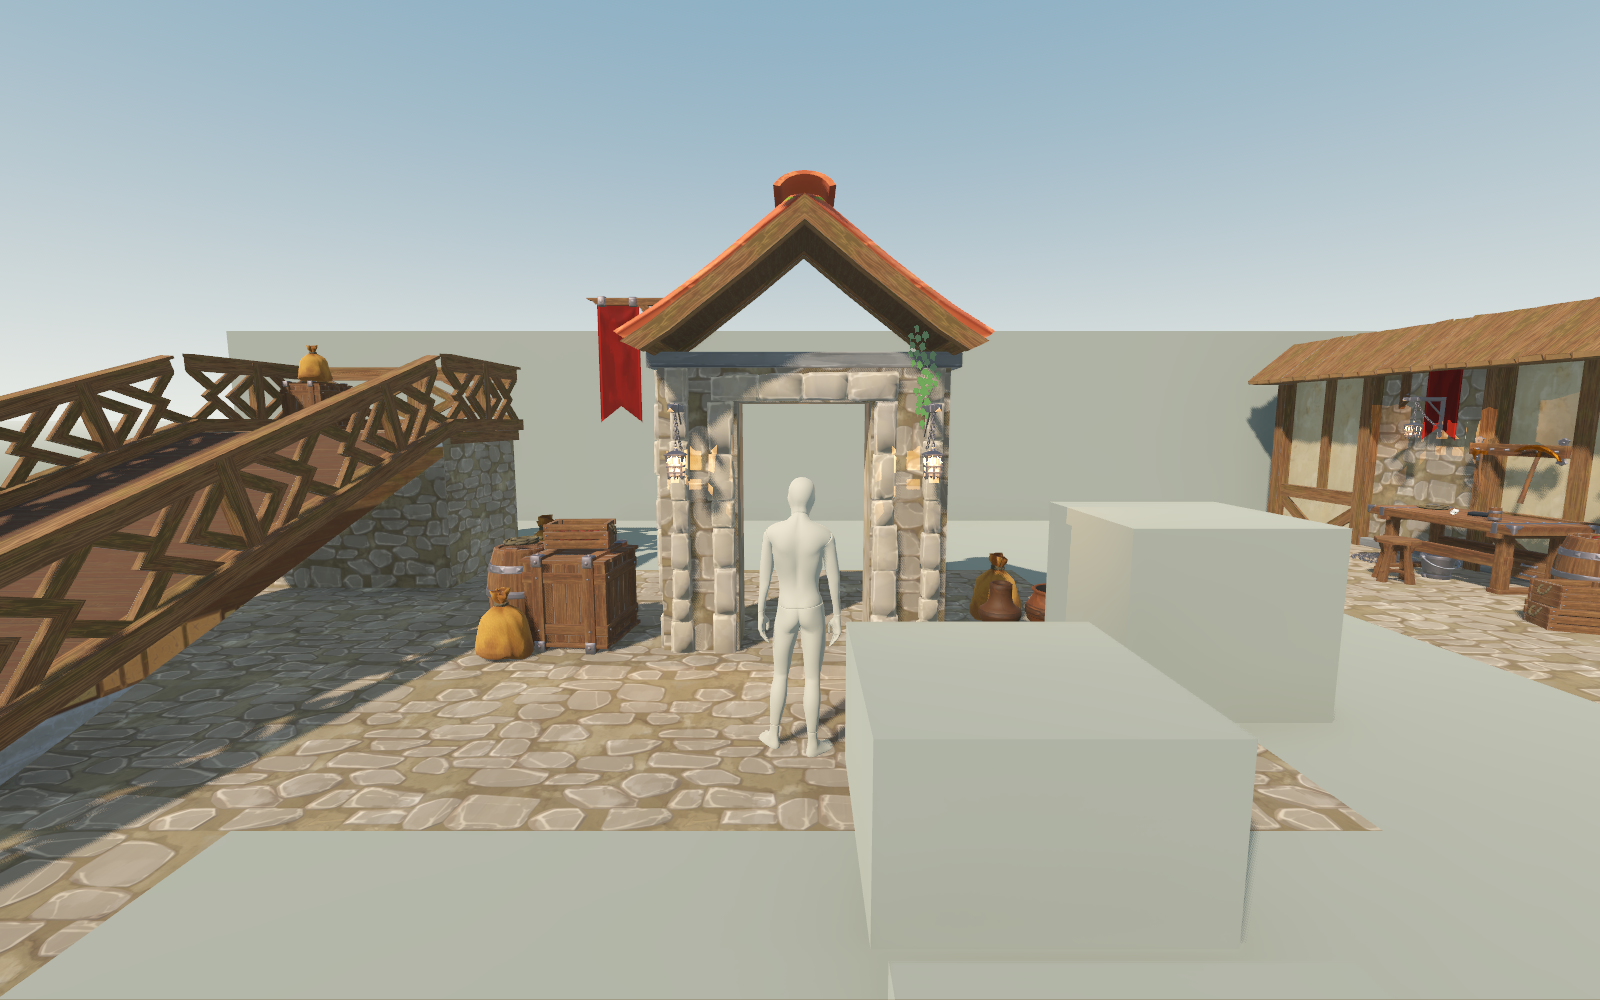
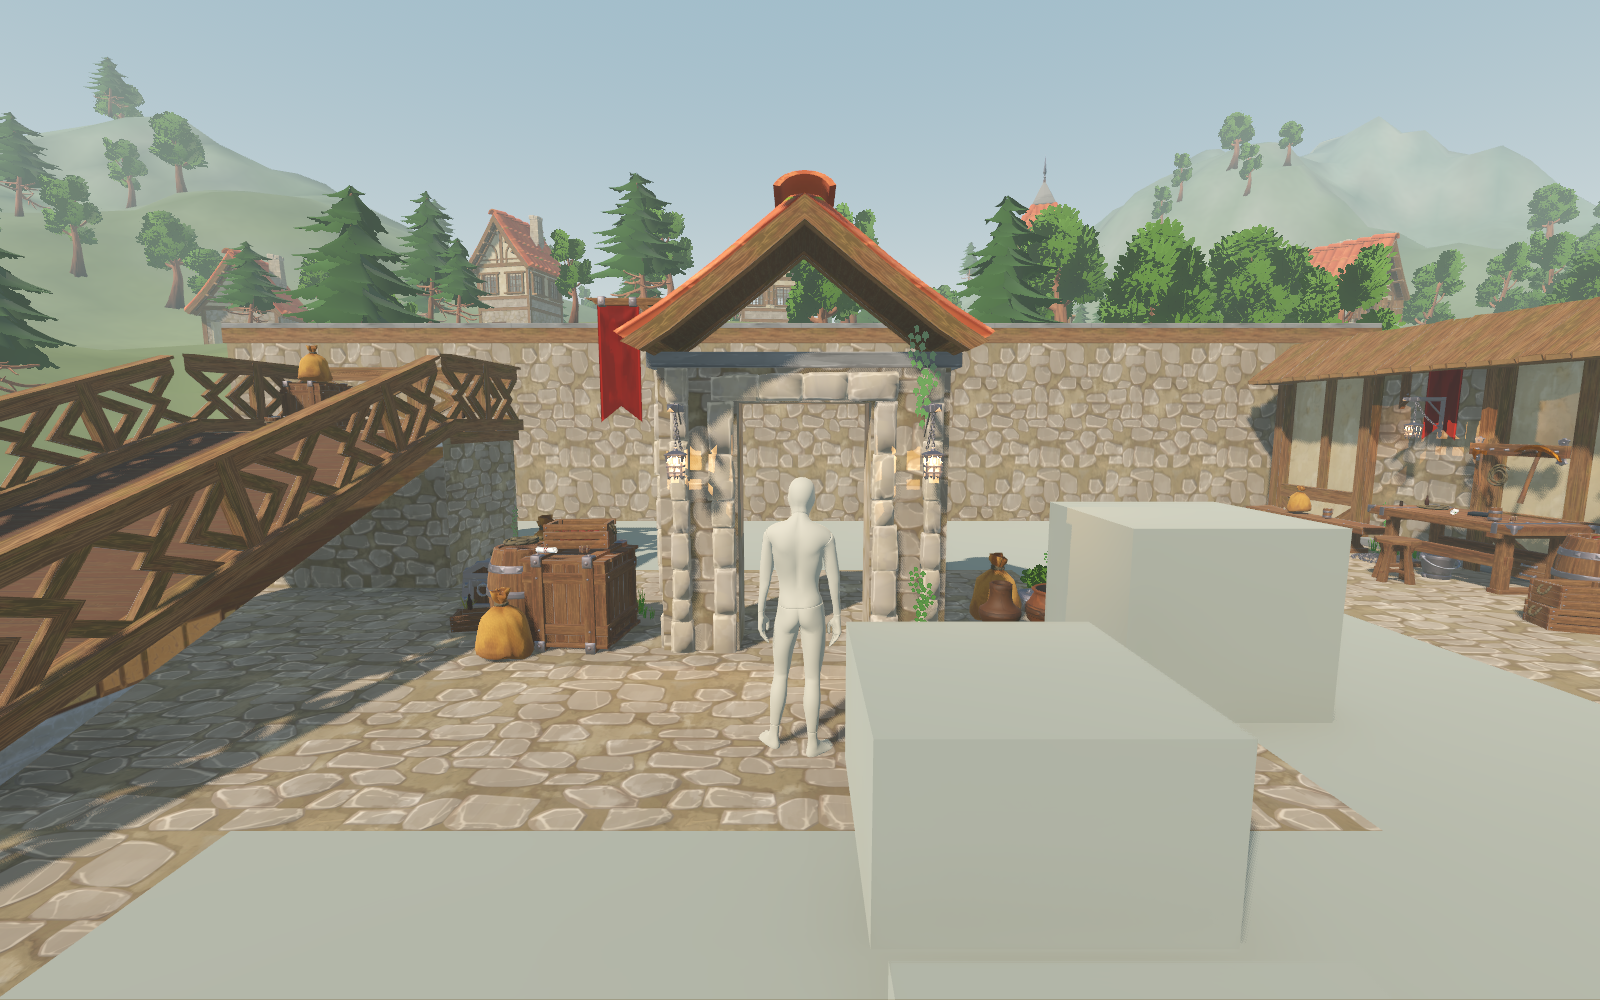
docs: illustrate vegetation and procedural backdrop controls

diff --git a/docs/local-asset-sample.html b/docs/local-asset-sample.html
@@ -6,24 +6,34 @@
 </style></head><body><main>
 <div class="eyebrow">ENVART / LOCAL ASSET STUDY / 2026.11.12</div>
 <h1>先把三个局部做完整。</h1>
-<p class="lead">同一测试场，使用真实建筑与道具素材重新装配门洞、卸货坡道和墙边作业区。以下图片全部来自 Godot Forward+ 实际运行，没有使用宣传图代替场景成果。</p>
+<p class="lead">同一测试场，使用真实建筑、道具和植物素材装配门洞、卸货坡道与墙边作业区，并加入外围聚落、林地和山丘远景。以下图片全部来自 Godot Forward+ 实际运行，没有使用宣传图代替场景成果。</p>
 <nav><a href="#play">开始试玩</a><a href="#shots">近景检查</a><a href="#edit">如何编辑</a><a href="#sources">素材来源</a><a href="rail-camera-guide.html">轨迹相机教程</a></nav>
-<div class="note">本版待用户美术审阅。灰色部分是保留的白盒测试区域，尚未扩展全场。首轮三风格案例被否决后，本轮只验证这三个局部的素材、道具组合与可玩性。</div>
+<div class="note">本版待用户美术审阅。灰色部分是保留的白盒测试区域；新增远景不属于可游玩关卡。首轮三风格案例被否决后，本轮继续补充三个局部的细节、地面植被，并延伸外围景观。</div>
 <figure><a href="images/local-sample/props.png"><img src="images/local-sample/props.png" alt="墙边维修台、工具、蔬果摊和货物的 Godot 实机画面"></a><figcaption>墙边道具区：维修台和蔬果摊具有不同用途，共享木材、金属与布料的美术语言。</figcaption></figure>
 <h2 id="play">从 Unity 到 Godot：打开与试玩</h2>
 <ol><li>用 Godot 4.7.2 打开 <code>GodotProject/envart-pipline/project.godot</code>，等待导入完成。</li><li>按 <kbd>F5</kbd> 运行当前主场景 <code>envart/local_sample/local_sample.tscn</code>。启动时展示门洞机位。</li><li>按 <kbd>1</kbd> 或 <kbd>2</kbd> 回到角色，点击画面捕获鼠标，用 WASD / Shift / Space 移动、奔跑、跳跃。</li><li>按 <kbd>Esc</kbd> 释放鼠标。按 <kbd>5</kbd>、<kbd>6</kbd>、<kbd>7</kbd> 可反复回到固定观察角度，继续移动鼠标不会跳回旧朝向。</li></ol>
-<table><thead><tr><th>输入</th><th>当前样板中的行为</th></tr></thead><tbody><tr><td>5 / 6 / 7</td><td>门洞 / 坡道 / 墙边道具的自由观察机位</td></tr><tr><td>0</td><td>白盒与美术层对照；白盒状态关闭新增道具碰撞</td></tr><tr><td>1 / 2 / 3</td><td>第一人称 / 第三人称 / 自由观察</td></tr><tr><td>4 / P / Home</td><td>原有轨迹相机 / 播放暂停 / 回到轨迹起点</td></tr><tr><td>H / R</td><td>隐藏局部样板提示 / 回到门洞前出生点</td></tr></tbody></table>
-<p><small>原有轨迹仍巡检整个测试场。本轮没有改成只看局部的轨迹；近景使用三个观察书签。历史三风格场景仍可打开后按 F6 单独运行，其 5 / 6 / 7 含义保持原样。</small></p>
+<table><thead><tr><th>输入</th><th>当前样板中的行为</th></tr></thead><tbody><tr><td>5 / 6 / 7</td><td>门洞 / 坡道 / 墙边道具的自由观察机位</td></tr><tr><td>8 / B</td><td>远景观察机位 / 独立开关远景和远景雾</td></tr><tr><td>0</td><td>白盒与美术层对照；白盒状态关闭新增道具碰撞</td></tr><tr><td>1 / 2 / 3</td><td>第一人称 / 第三人称 / 自由观察</td></tr><tr><td>4 / P / Home</td><td>原有轨迹相机 / 播放暂停 / 回到轨迹起点</td></tr><tr><td>H / R</td><td>隐藏局部样板提示 / 回到门洞前出生点</td></tr></tbody></table>
+<p><small>原有轨迹仍巡检整个测试场。本轮没有改成只看局部的轨迹；近景使用四个观察书签。历史三风格场景仍可打开后按 F6 单独运行，其 5 / 6 / 7 含义保持原样。</small></p>
 <h2 id="shots">近景检查</h2>
 <figure><a href="images/local-sample/door.png"><img src="images/local-sample/door.png" alt="门洞的石框、瓦顶、灯笼、旗帜及货物"></a><figcaption>门洞：原有净宽 1.2 m、净高 2.3 m 保留；门框、压顶、瓦檐、灯具与旗帜建立入口层次，两侧货物避让通道。</figcaption></figure>
 <figure><a href="images/local-sample/ramp.png"><img src="images/local-sample/ramp.png" alt="木坡道、栏杆、卸货平台和货车"></a><figcaption>坡道：保留原坡度与落脚平台，装配木铺面、交叉栏杆、石基、货车与卸货物件；没有用台阶替换原坡面。</figcaption></figure>
 <div class="grid"><figure><a href="images/local-sample/workbench_detail.png"><img src="images/local-sample/workbench_detail.png" alt="工作台近景"></a><figcaption>维修角：挂架、斧镐、绳圈、账本、卷轴和水杯，台面物件都有支撑。</figcaption></figure><figure><a href="images/local-sample/shipment_detail.png"><img src="images/local-sample/shipment_detail.png" alt="墙边货物叠放近景"></a><figcaption>待运货物：大小货箱、麻袋、木桶与绳圈按用途分组，避免平均散点堆放。</figcaption></figure></div>
 <div class="grid"><figure><a href="images/local-sample/player_first.png"><img src="images/local-sample/player_first.png" alt="第一人称门洞实机"></a><figcaption>第一人称：检查玩家眼高下的尺寸与近距离细节。</figcaption></figure><figure><a href="images/local-sample/player_third.png"><img src="images/local-sample/player_third.png" alt="第三人称角色实机"></a><figcaption>第三人称：保留本机 Mixamo 人形角色与相机避障。</figcaption></figure></div>
 <details><summary>查看范围总览与原白盒对照</summary><figure><img src="images/local-sample/overview.png" alt="三个局部与保留白盒的整体关系"><figcaption>范围总览：远墙、跳台、台阶等继续作为白盒背景。</figcaption></figure><figure><img src="images/local-sample/door_whitebox.png" alt="相同门洞机位白盒对照"></figure></details>
+<h2 id="vegetation">墙脚植被与外围远景</h2>
+<figure><a href="images/local-sample/vegetation_detail.png"><img src="images/local-sample/vegetation_detail.png" alt="货物边缘的真实灌木、草簇、小花与三叶草"></a><figcaption>灌木、矮草、细叶草、三叶草、蕨类和花朵均来自真实免费素材。固定种子控制局部草簇分布，避免整齐排布和铺满通行空间。</figcaption></figure>
+<figure><a href="images/local-sample/backdrop_vista.png"><img src="images/local-sample/backdrop_vista.png" alt="程序化聚落、树林与山丘远景"></a><figcaption>11 栋真实模块组合的房屋、460 棵树与连续地形。树木按空间分区使用 MultiMesh，避让建筑地基和陡坡；房屋与树林都位于测试场外围。</figcaption></figure>
+<div class="note">程序化负责地形与装配分布，房屋、树木和近景植物仍使用下载模型。远景没有玩法碰撞，也没有完成可探索区域的道路、交互或关卡设计。</div>
+<p>在文件系统面板选中 <code>envart/local_sample/backdrop_config.tres</code>，检查器中可调整种子、树木数量、地形范围、网格步长、山丘高度和地表颜色。房屋的锚点经过构图安排，位于生成脚本的 <code>house_specs</code>；种子控制建筑尺度与树林分布。</p>
+<pre><code># 在仓库根目录运行；MultiMesh 烘焙需要图形后端，不加 --headless。
+/Applications/Godot.app/Contents/MacOS/Godot \
+  --path GodotProject/envart-pipline \
+  --script res://envart/tools/build_backdrop.gd</code></pre>
+<p>输出为 <code>envart/local_sample/backdrop.tscn</code>，F5 运行时直接加载。按 B 开关远景，按 8 查看整体构图，按 0 对照白盒。无图形模式会被生成器拒绝，防止树木实例缓冲丢失。重新生成会覆盖该文件，手工调整前请另存或提交。</p>
 <h2 id="edit">在编辑器里改哪里</h2>
-<div class="grid"><div class="card"><h3>场景与 Prefab 的对应</h3><p>Godot 的 <code>.tscn</code> 可以像 Unity Prefab 一样实例化。打开 <code>local_sample.tscn</code>：<code>BaseLab</code> 管玩法，<code>Art</code> 是素材装配，<code>ReviewViews</code> 是三个观察机位。</p><p>双击 <code>art.tscn</code> 可直接修改各组节点的位置、旋转和缩放。场景中保留 glTF 实例及素材路径元数据。</p></div><div class="card"><h3>素材和碰撞分开检查</h3><p><code>Doorway_StoneAndTimber</code>、<code>Ramp_LoadingDock</code>、<code>Wall_ServiceAndMarket</code> 对应三个局部。大型道具的 <code>Footprint</code> 节点使用独立碰撞，需要和道具一起移动。</p><p>原始 17 个白盒静态碰撞体保持不变。新道具、货车和护栏的碰撞是简化代理，未做逐三角形精确碰撞。</p></div></div>
+<div class="grid"><div class="card"><h3>场景与 Prefab 的对应</h3><p>Godot 的 <code>.tscn</code> 可以像 Unity Prefab 一样实例化。打开 <code>local_sample.tscn</code>：<code>BaseLab</code> 管玩法，<code>Art</code> 是素材装配，<code>ReviewViews</code> 是四个观察机位。</p><p>双击 <code>art.tscn</code> 可直接修改各组节点的位置、旋转和缩放。场景中保留 glTF 实例及素材路径元数据。</p></div><div class="card"><h3>素材和碰撞分开检查</h3><p><code>Doorway_StoneAndTimber</code>、<code>Ramp_LoadingDock</code>、<code>Wall_ServiceAndMarket</code> 对应三个局部。大型道具的 <code>Footprint</code> 节点使用独立碰撞，需要和道具一起移动。</p><p>原始 17 个白盒静态碰撞体保持不变。新道具、货车和护栏的碰撞是简化代理，未做逐三角形精确碰撞。</p></div></div>
 <p>材质保留作者的贴图与 UV。适配包含：启用 mipmaps 与各向异性过滤、校正部分道具的顶点色、减弱法线强度、调整木色和灯光。门柱等需要与白盒严密对齐的位置仍保留原始填充面，使用作者石材纹理；主要可见门框、屋檐、栏杆和 props 使用下载的真实网格。</p>
-<p>运行时的白盒对照与局部填充材质由 <code>sample.gd</code> 切换。新增美术层可以独立移动或替换，控制器不依赖这两套素材。</p>
+<p>运行时的白盒对照与局部填充材质由 <code>sample.gd</code> 切换。新增美术层可以独立移动或替换，控制器不依赖这些素材。</p>
 <details><summary>重新生成与验证命令（会覆盖已生成的样板场景）</summary><p>日常摆放直接在编辑器中修改即可。以下命令只用于重建初始样板；手动修改前先另存场景或提交 Git。</p><pre><code>GODOT_BIN=/Applications/Godot.app/Contents/MacOS/Godot
 "$GODOT_BIN" --headless --path GodotProject/envart-pipline \
   --script res://envart/tools/build_local_sample.gd
@@ -32,7 +42,7 @@
 "$GODOT_BIN" --path GodotProject/envart-pipline \
   --script res://tests/local_sample_visual.gd</code></pre><p>截图输出：<code>/tmp/envart-local-sample/</code>。测试覆盖原白盒碰撞保持、门洞双向穿行、坡道登顶、四种相机与书签后的鼠标朝向连续性。技术验证通过不等于美术验收通过。</p></details>
 <h2 id="sources">实际使用的免费素材</h2>
-<table><thead><tr><th>作者 / 素材</th><th>使用范围</th><th>授权记录</th></tr></thead><tbody><tr><td><a href="https://quaternius.com/packs/medievalvillagemegakit.html">Quaternius · Medieval Village MegaKit</a><br><a href="https://opengameart.org/content/medieval-village-megakit">作者公开下载页</a></td><td>Standard 免费包；精选 30 个建筑、铺面、栏杆、藤蔓和货车模型导入。</td><td>包内 License_Standard.txt：CC0 1.0</td></tr><tr><td><a href="https://quaternius.com/packs/fantasypropsmegakit.html">Quaternius · Fantasy Props MegaKit</a><br><a href="https://opengameart.org/content/fantasy-props-megakit">作者公开下载页</a></td><td>Standard 免费包；精选 40 个工具、容器、家具、食品与杂物模型导入。</td><td>包内 License_Standard.txt：CC0 1.0</td></tr></tbody></table>
-<p>本场景实际实例化其中 48 种模型。未购买或使用 Pro / Source 专属示例场景、磨损版本或自定义着色器。两个素材目录包含原始许可、下载页面和文件 SHA-256 清单；源 ZIP 不放进仓库。</p>
+<table><thead><tr><th>作者 / 素材</th><th>使用范围</th><th>授权记录</th></tr></thead><tbody><tr><td><a href="https://quaternius.com/packs/medievalvillagemegakit.html">Quaternius · Medieval Village MegaKit</a><br><a href="https://opengameart.org/content/medieval-village-megakit">作者公开下载页</a></td><td>Standard 免费包；精选 37 个建筑、铺面、栏杆、藤蔓和货车模型导入。</td><td>包内 License_Standard.txt：CC0 1.0</td></tr><tr><td><a href="https://quaternius.com/packs/fantasypropsmegakit.html">Quaternius · Fantasy Props MegaKit</a><br><a href="https://opengameart.org/content/fantasy-props-megakit">作者公开下载页</a></td><td>Standard 免费包；精选 40 个工具、容器、家具、食品与杂物模型导入。</td><td>包内 License_Standard.txt：CC0 1.0</td></tr><tr><td><a href="https://quaternius.com/packs/stylizednaturemegakit.html">Quaternius · Stylized Nature MegaKit</a><br><a href="https://opengameart.org/content/stylized-nature-megakit">作者公开下载页</a></td><td>Standard 免费包；精选 17 个植物、树木与石块模型导入。</td><td>包内 License_Standard.txt：CC0 1.0</td></tr></tbody></table>
+<p>近景当前实例化 64 种模型，远景另使用建筑构件与三种树木。未购买或使用 Pro / Source 专属示例场景、磨损版本或自定义着色器。三个素材目录包含原始许可、下载页面和文件 SHA-256 清单；源 ZIP 不放进仓库。</p>
 <p><small>Mixamo 人形角色仍沿用本机安装。它与以上 CC0 环境素材采用不同的分发规则，原始角色文件没有加入 Git。详细说明见 README 与上一版角色教程。</small></p>
 </main></body></html>
